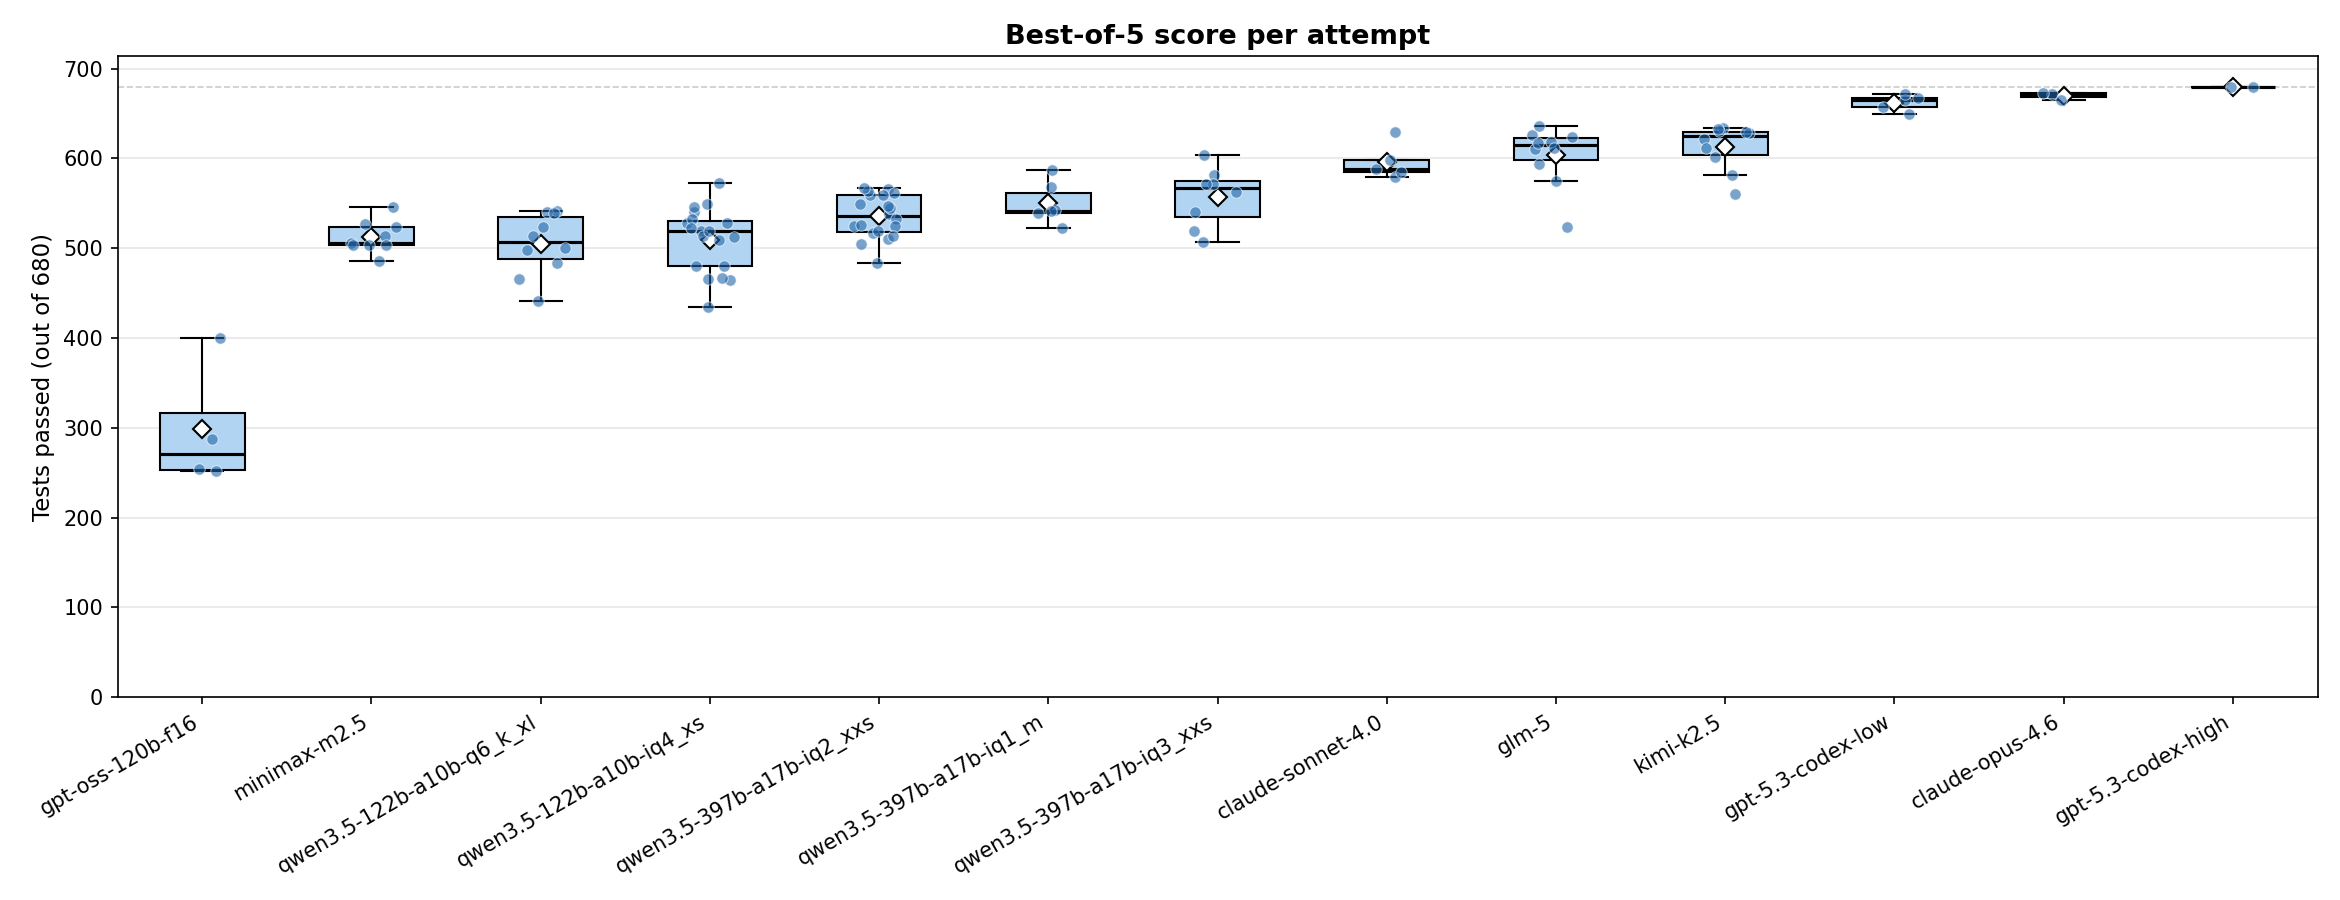
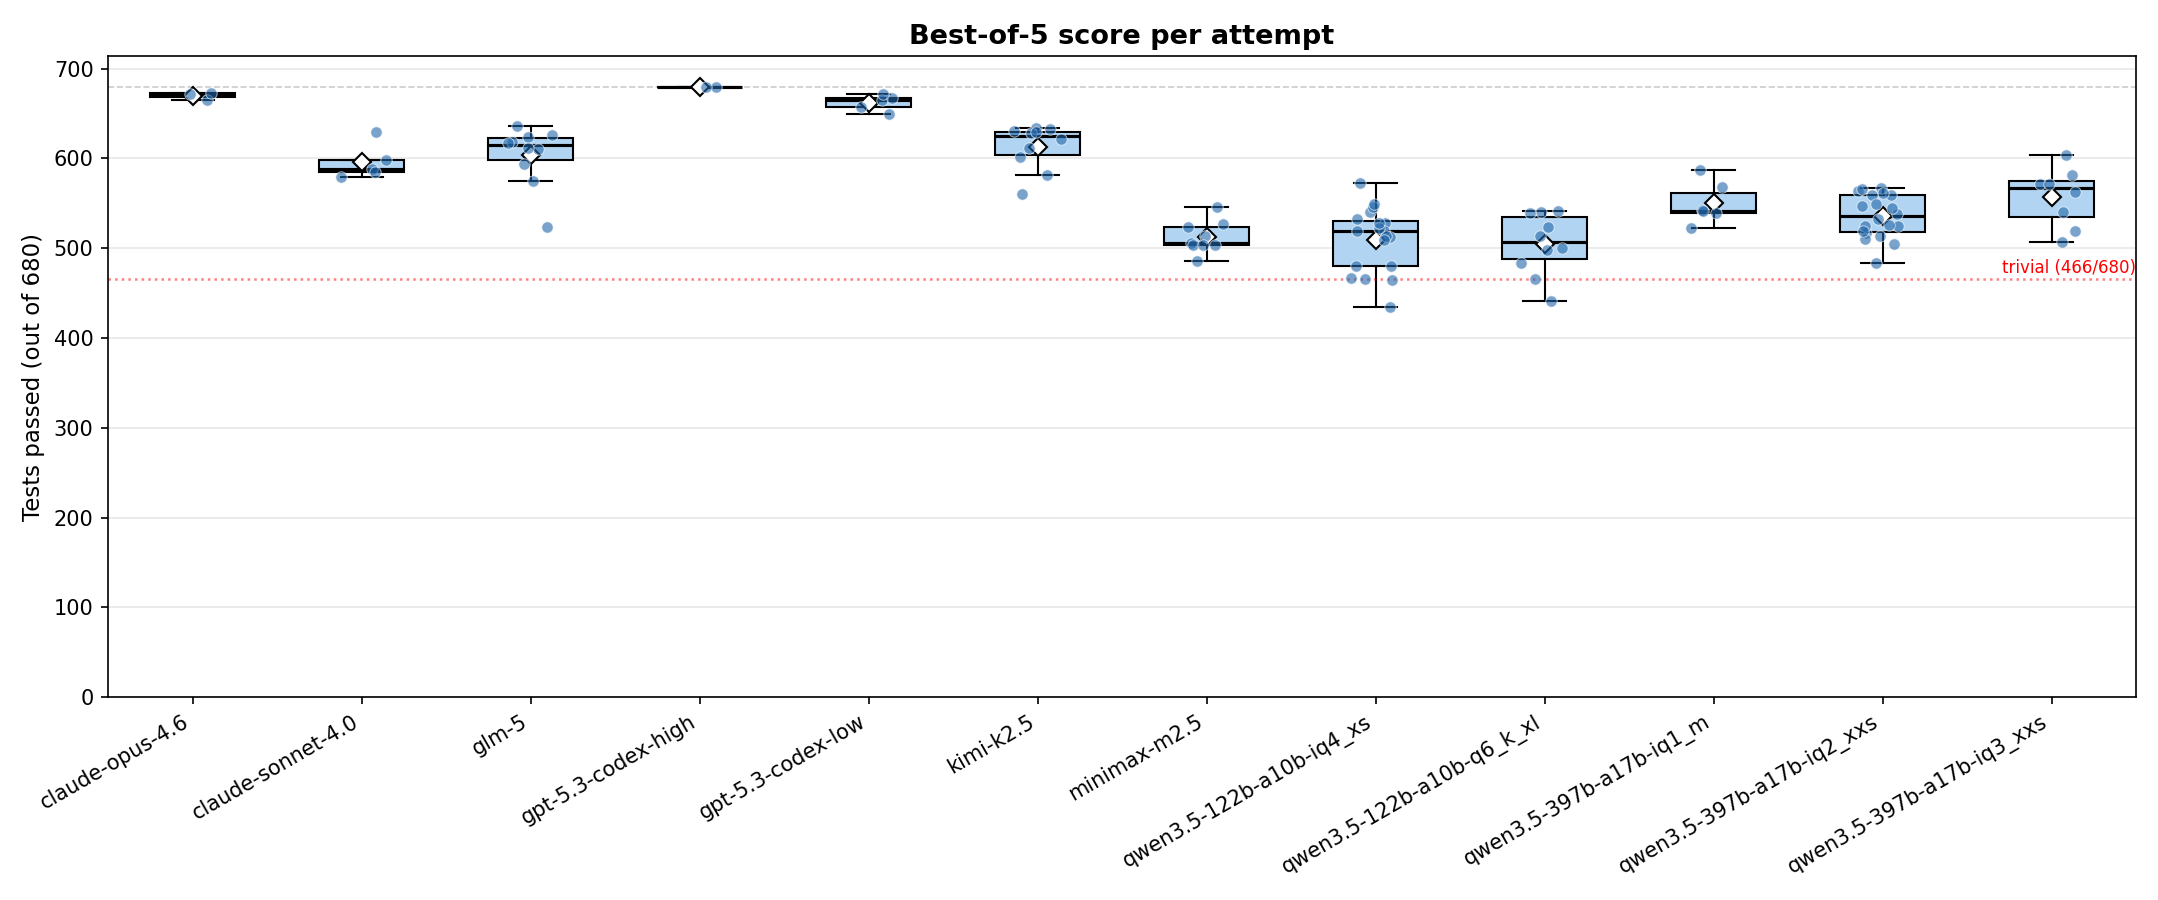
Add trivial baseline to per-task charts (plot_results.py)
Extended plot_results.py to show the trivial classifier baseline on
individual task charts, matching the lines already added to the
comparison and turns charts in the previous commit.

The task name is inferred from the summary file path
(results/<task>/summary.txt), then tests.jsonl is read to compute
max(#valid, #invalid) as the trivial score. Displayed as a red
dotted horizontal line with label showing raw counts.

diff --git a/plot_results.py b/plot_results.py
@@ -2,9 +2,11 @@
 """Generate a boxplot + strip chart from analyze_runs.py summary output."""
 
 import argparse
+import json
 import re
 import sys
 from collections import OrderedDict
+from pathlib import Path
 
 import matplotlib.pyplot as plt
 import numpy as np
@@ -102,6 +104,19 @@ def main():
     ax.set_ylim(bottom=0, top=total_tests * 1.05)
     ax.axhline(y=total_tests, color="gray", linestyle="--", alpha=0.4, linewidth=0.8)
     ax.grid(axis="y", alpha=0.3)
+
+    # Trivial baseline: infer task from summary path (results/<task>/summary.txt)
+    summary_path = Path(args.summary)
+    task_name = summary_path.parent.name
+    tests_jsonl = Path("tasks") / task_name / "tests.jsonl"
+    if tests_jsonl.exists():
+        tests = [json.loads(line) for line in tests_jsonl.open()]
+        n_valid = sum(1 for t in tests if t["expected"] == "valid")
+        n_invalid = len(tests) - n_valid
+        trivial = max(n_valid, n_invalid)
+        ax.axhline(y=trivial, color="red", linestyle=":", alpha=0.5, linewidth=1.2)
+        ax.text(len(names) - 0.5, trivial + total_tests * 0.01,
+                f"trivial ({trivial}/{total_tests})", fontsize=8, color="red", ha="right")
 
     fig.tight_layout()
     fig.savefig(args.output, dpi=150)
